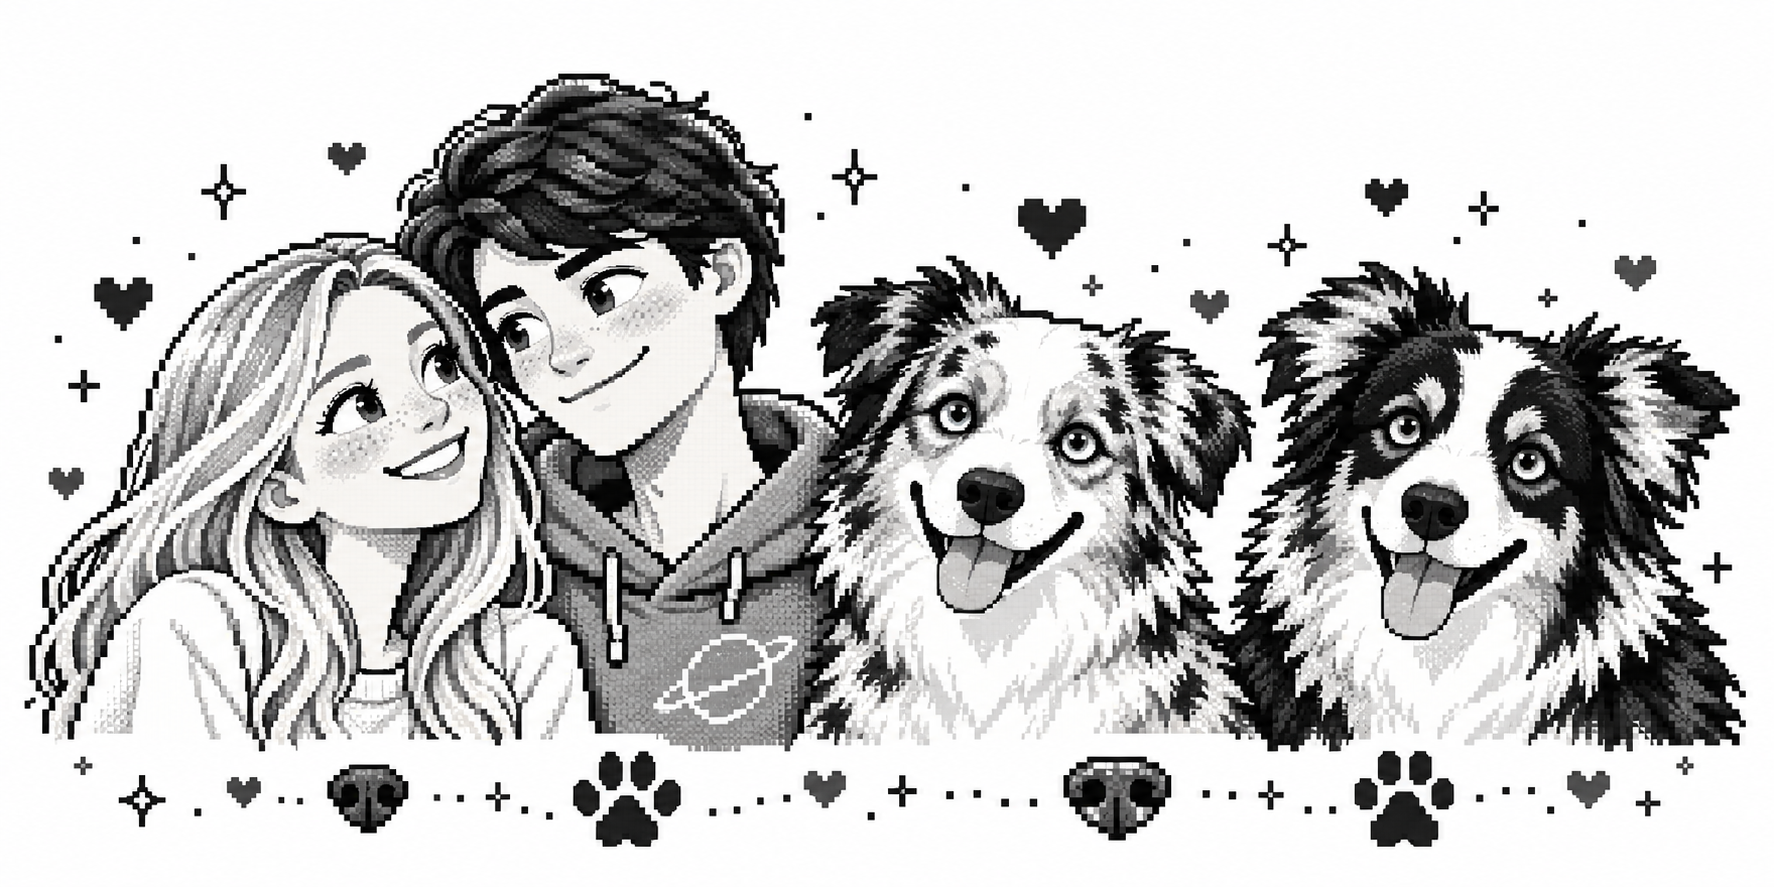
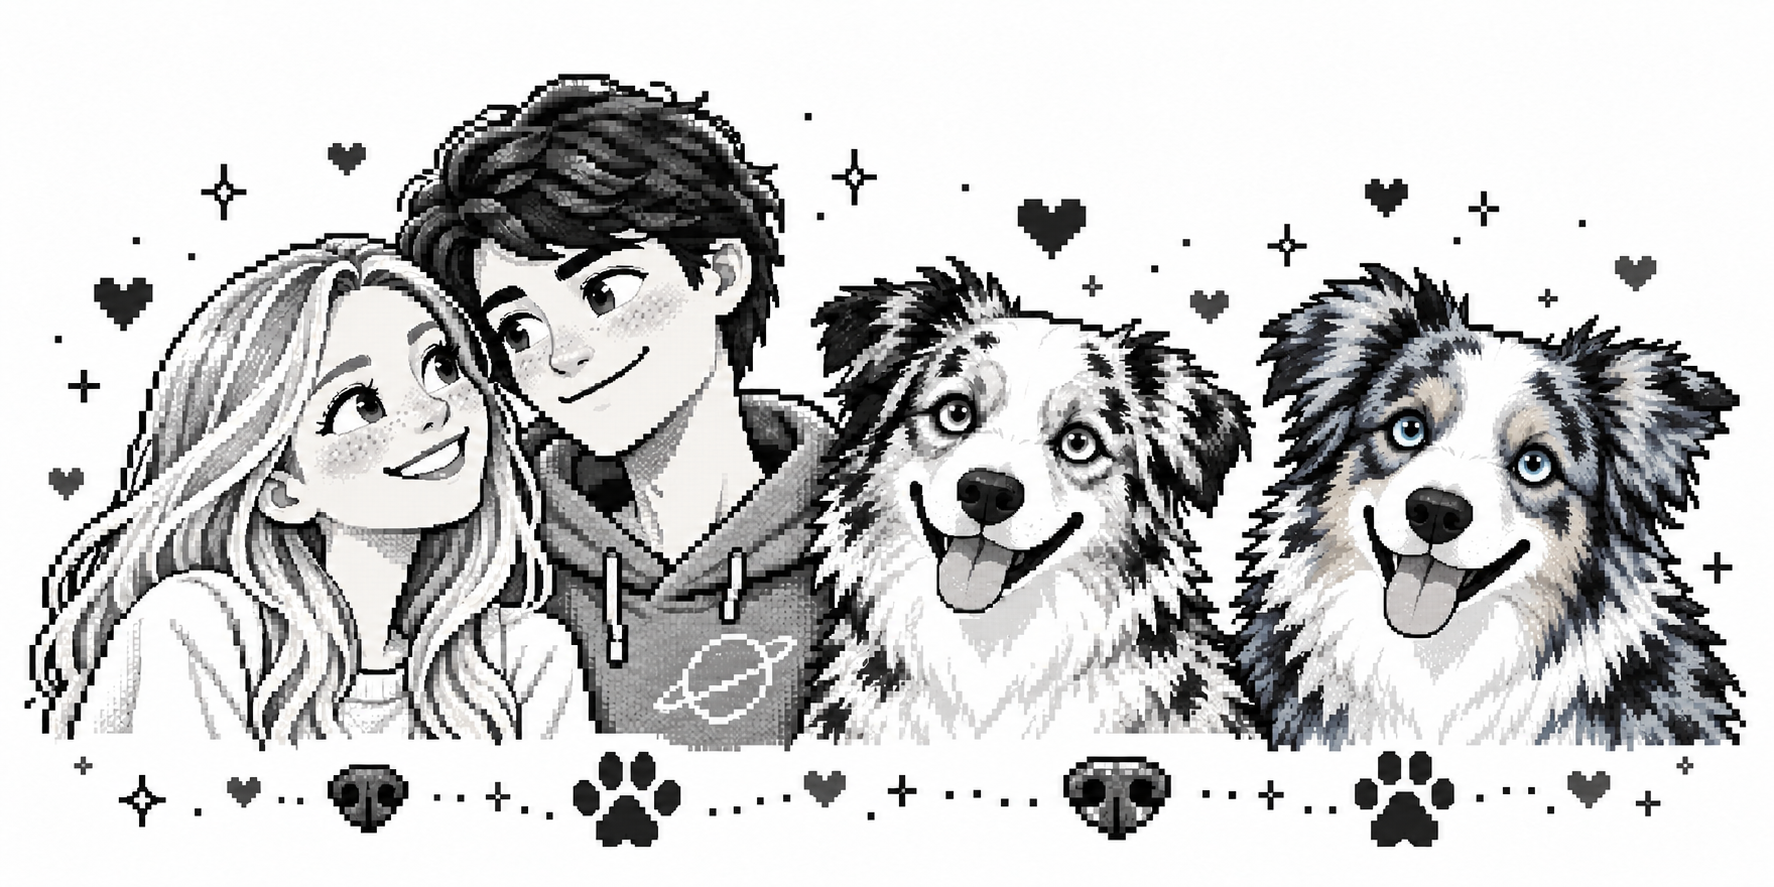
Add postcard puzzle gates and correct Eyva blue merle portrait

diff --git a/index.html b/index.html
@@ -2,7 +2,7 @@
 <html lang="en"><head><meta charset="utf-8"><meta name="viewport" content="width=device-width,initial-scale=1"><meta name="theme-color" content="#faf9f5"><meta name="robots" content="noindex,nofollow"><title>A little way home · For Irochka</title><link rel="stylesheet" href="style.css"></head>
 <body><main>
 <header><span class="brand">SASHA NAVIGATION</span><span class="edition">a little way home ♡</span></header>
-<section id="lock"><p class="eyebrow">SASHA NAVIGATION · BOARDING GATE</p><h1>Almost home,<br>Irochka.</h1><img class="gate-art" src="pixel-crew.png" alt="Your pixel welcome crew: Sasha and the two Aussies"><p class="lead">Your ticket holds our secret word.<br>Four lines. Four first steps. One word.</p><form id="unlock-form"><label for="secret-code">BOARDING CODE</label><input id="secret-code" name="code" maxlength="12" autocomplete="off" autocapitalize="characters" spellcheck="false" placeholder="_ _ _ _" aria-describedby="lock-feedback"><button class="primary" type="submit">Open the gate ♡</button></form><p id="lock-feedback" aria-live="polite">A little riddle before our little adventure.</p><button id="code-hint" class="text-button" type="button">Sasha, a tiny hint?</button><p id="hint-copy" hidden>Look inside your paper ticket. Read the first letter of each of the four lines, from top to bottom.</p><button id="lost-ticket" class="text-button" type="button">My paper ticket is taking a detour…</button><div id="paper-copy" hidden><p>Look how far your little feet have been.<br>One more adventure waits beyond this gate.<br>Very soon, I’ll hold you close again.<br>Every road feels warmer with you.</p></div></section><section id="intro" hidden><p class="eyebrow">SO MANY CITIES. ONE VERY LOVED IROCHKA.</p><h1>Your suitcase.<br>A whole little world.</h1><p class="lead">Hop across rooftops, ride the boats, chase the wind.<br>Collect our little memories. Find the way home.</p><div class="intro-art"><img src="pixel-crew.png" alt="Pixel portraits of Ira, Sasha and their two Australian shepherds"></div><button id="start" class="primary">Let’s take the scenic way home →</button><p class="small">A little game from Sasha. Made for your tired feet.</p></section>
+<section id="lock"><p class="eyebrow" id="lock-label">01 / THE LETTER</p><h1 id="lock-title">Almost home, Irochka.</h1><img class="gate-art" src="pixel-crew.png" alt="Your pixel welcome crew: Sasha and the two Aussies"><p class="lead" id="lock-copy">Four lines in your letter. Four first steps. One word.</p><form id="unlock-form"><label for="secret-code">YOUR ANSWER</label><input id="secret-code" name="code" maxlength="12" autocomplete="off" autocapitalize="characters" spellcheck="false" placeholder="_ _ _ _" aria-describedby="lock-feedback"><button class="primary" type="submit">Open the gate ♡</button></form><p id="lock-feedback" aria-live="polite">A little riddle before our little adventure.</p><button id="code-hint" class="text-button" type="button">Sasha, a tiny hint?</button><p id="hint-copy" hidden>Look inside your paper ticket. Read the first letter of each of the four lines, from top to bottom.</p><button id="lost-ticket" class="text-button" type="button">My paper ticket is taking a detour…</button><div id="paper-copy" hidden><p>Look how far your little feet have been.<br>One more adventure waits beyond this gate.<br>Very soon, I’ll hold you close again.<br>Every road feels warmer with you.</p></div></section><section id="intro" hidden><p class="eyebrow">SO MANY CITIES. ONE VERY LOVED IROCHKA.</p><h1>Your suitcase.<br>A whole little world.</h1><p class="lead">Hop across rooftops, ride the boats, chase the wind.<br>Collect our little memories. Find the way home.</p><div class="intro-art"><img src="pixel-crew.png" alt="Pixel portraits of Ira, Sasha and their two Australian shepherds"></div><button id="start" class="primary">Let’s take the scenic way home →</button><p class="small">A little game from Sasha. Made for your tired feet.</p></section>
 <section id="play" hidden><div class="chapter"><div><p class="eyebrow" id="chapter-label"></p><h1 id="city-title"></h1></div><span id="stamp" class="stamp">♡</span></div><p class="caption" id="city-caption"></p><div class="game-wrap"><canvas id="game" width="720" height="500" aria-label="Move left or right and jump twice. Collect three hearts and reach the letter at the end."></canvas><span hidden class="from-label" id="from-label"></span><span hidden class="to-label" id="to-label"></span></div><div class="navigation-note"><span>Sasha says</span><p id="hint" aria-live="polite">Hold the button. Release when the little heart reaches the dotted zone.</p></div><div id="controls"><div class="hud"><span id="hearts">♡ ♡ ♡</span><span id="mechanic"></span><button id="pause" class="text-button">Pause</button></div><div class="pad"><button id="left" aria-label="Move left">←</button><button id="right" aria-label="Move right">→</button><button id="jump" class="primary">Jump ↑</button></div><p class="small">← → or A / D to move · Space to jump · jump again in the air!</p><button id="gentle" class="text-button">Sasha, give me a hand ♡</button></div><div id="landed" hidden><p id="memory" class="memory"></p><button id="next" class="primary">Keep going, together →</button></div><ol id="route" class="route" aria-label="Your journey"></ol></section>
 <section id="finish" hidden><p class="eyebrow">DESTINATION FOUND</p><h1>You don’t have to know<br>every turn.</h1><img class="final-art" src="pixel-crew.png" alt="Ira, Sasha and two happy Australian shepherds in pixel art"><div class="letter"><p>Irochka,</p><p>So many cities, so many little adventures.<br>And through every one of them, you’ve been close to me.</p><p>If you lose your way, forget the city, or simply feel tired — call me. We’ll figure it out together.</p><p>The next stop is a hug.<br>The two fluffy members of your welcome committee are ready, too.</p><p class="signature">I’m always here for you.<br>With love, Sasha ♡</p></div><h2>Your little journey</h2><div id="memory-book"></div><button id="replay" class="text-button">One more little adventure?</button></section>
 <footer>For Irochka, wherever you are. ♡</footer></main><script src="gate.js"></script><script src="stops.js"></script><script src="game.js"></script><script src="art.js"></script></body></html>

diff --git a/gate.js b/gate.js
@@ -1,16 +1,32 @@
 (()=>{
 const el=id=>document.getElementById(id);
+const puzzles=[
+ {code:'LOVE',title:'Almost home, Irochka.',label:'01 / THE LETTER',copy:'Four lines in your letter. Four first steps. One word.',hint:'Read the first letter of each of the four lines, from top to bottom.',paper:'Look how far your little feet have been.\nOne more adventure waits beyond this gate.\nVery soon, I’ll hold you close again.\nEvery road feels warmer with you.'},
+ {code:'12',title:'Paw inspection!',label:'02 / THE WELCOME CREW',copy:'Our two fluffy inspectors left prints all over your ticket. How many pawprints can you find?',hint:'Count every pawprint on the whole open sheet, including the two large stamps under our portraits. Noses and stars do not count.',paper:'There are ten small pawprints scattered over the sheet and two large paw stamps underneath our portraits.'},
+ {code:'HOME',title:'One last little clue.',label:'03 / OUR DESTINATION',copy:'Find the honey jar on your ticket. Take away a few letters, then add a little “me”. Where are we going?',hint:'HONEY minus NEY leaves HO. Now add ME.',paper:'HONEY − NEY + ME = _ _ _ _'}
+];
+let current=0,after=()=>{el('intro').hidden=false;el('start').focus({preventScroll:true})};
+const solved=new Set();
+try{JSON.parse(localStorage.getItem('irochka-puzzles-v1')||'[]').forEach(x=>{if(Number.isInteger(x)&&x>=0&&x<3)solved.add(x)})}catch{}
+function show(n,done){
+ if(solved.has(n)){done();return}
+ current=n;after=done;const p=puzzles[n];
+ el('lock').hidden=false;el('intro').hidden=true;el('play').hidden=true;el('finish').hidden=true;
+ el('lock-title').textContent=p.title;el('lock-label').textContent=p.label;el('lock-copy').textContent=p.copy;
+ el('hint-copy').textContent=p.hint;el('hint-copy').hidden=true;el('paper-copy').textContent=p.paper;el('paper-copy').hidden=true;
+ el('secret-code').value='';el('secret-code').placeholder=n===1?'?':'_ _ _ _';el('secret-code').inputMode=n===1?'numeric':'text';
+ el('lock-feedback').textContent='Take your time, love. Your journey is saved.';window.scrollTo(0,0);
+}
+window.ticketGate=(stage,done)=>{
+ const required=stage>=12?[0,1,2]:stage>=6?[0,1]:[0];
+ const next=required.find(n=>!solved.has(n));if(next===undefined){done();return}show(next,()=>window.ticketGate(stage,done));
+};
 el('unlock-form').addEventListener('submit',event=>{
- event.preventDefault();
- const code=el('secret-code').value.normalize('NFKC').replace(/\s/g,'').toUpperCase();
- if(code==='LOVE'){
-  el('lock').hidden=true;el('intro').hidden=false;
-  el('start').textContent='Boarding approved. Let’s go! →';el('start').focus({preventScroll:true});window.scrollTo(0,0);
- }else{
-  el('lock-feedback').textContent=code?'The welcome crew says: nearly! Try the first letters. ♡':'Four little letters are missing. Take your time. ♡';
-  el('secret-code').focus();
- }
+ event.preventDefault();const raw=el('secret-code').value.normalize('NFKC').replace(/\s/g,'').toUpperCase();
+ const code=current===1&&/^\d+$/.test(raw)?String(Number(raw)):raw;
+ if(code===puzzles[current].code){solved.add(current);try{localStorage.setItem('irochka-puzzles-v1',JSON.stringify([...solved]))}catch{}el('lock').hidden=true;after()}
+ else{el('lock-feedback').textContent='Not quite yet. Try again, or ask me for a tiny hint. ♡';el('secret-code').focus()}
 });
-el('code-hint').onclick=()=>el('hint-copy').hidden=false;
-el('lost-ticket').onclick=()=>el('paper-copy').hidden=false;
+el('code-hint').onclick=()=>el('hint-copy').hidden=false;el('lost-ticket').onclick=()=>el('paper-copy').hidden=false;
+show(0,()=>{el('lock').hidden=true;el('intro').hidden=false});
 })();

diff --git a/style.css b/style.css
@@ -2,3 +2,5 @@
 .route-options{max-width:470px;margin:0 auto 20px;text-align:left;border-top:1px solid var(--line);border-bottom:1px solid var(--line);padding:13px 0;font:12px/1.6 system-ui,sans-serif;color:var(--muted)}.route-options summary{cursor:pointer}.route-options label{display:block;padding:7px 0}.route-options input{accent-color:var(--ink);width:17px;height:17px;vertical-align:middle}.memory-card h3{font-weight:400;font-size:20px;margin:12px 0}
 .game-wrap{border-radius:12px;margin-top:16px}canvas{aspect-ratio:720/500;max-height:none;image-rendering:pixelated}.hud{display:flex;align-items:center;justify-content:space-between;margin:8px 0;gap:12px}.hud #hearts{font-size:23px;white-space:nowrap}.hud #mechanic{font:12px system-ui,sans-serif;color:var(--muted)}.pad{display:grid;grid-template-columns:1fr 1fr 2.2fr;gap:10px}.pad button{min-height:62px;border:1px solid #827969;border-radius:7px;background:#eae5db;font:24px system-ui,sans-serif;color:#363029;touch-action:none;user-select:none;-webkit-user-select:none}.pad button:last-child{background:#363029;color:#faf9f5;font-size:19px}.pad button:active{transform:translateY(2px);background:#aaa08d}.navigation-note{min-height:43px}.caption{margin-bottom:10px}#play{padding-top:22px}.chapter h1{font-size:30px} .from-label,.to-label{display:none}
 body{background:#fff;color:#252525;font-family:'Courier New',monospace}h1,h2,h3,.letter,.signature{font-family:'Courier New',monospace}h1{font-weight:700;letter-spacing:-1.5px}.primary,.pad button{border-radius:0;box-shadow:4px 4px 0 #a8a8a8}.game-wrap{border-radius:0;border:3px solid #292929}.stamp{border-radius:0;border:2px dashed #292929;transform:none}.route li{border-radius:0}.intro-art img,.final-art{image-rendering:pixelated}#lock{text-align:center;max-width:650px;margin:auto}.gate-art{width:100%;margin:8px 0 15px;image-rendering:pixelated}#unlock-form{max-width:360px;margin:24px auto;display:grid;gap:14px}#unlock-form label{font-size:11px;letter-spacing:3px}#secret-code{width:100%;box-sizing:border-box;border:2px solid #292929;border-radius:0;padding:16px;font:bold 28px 'Courier New',monospace;letter-spacing:10px;text-align:center;text-transform:uppercase}#lock-feedback,#hint-copy,#paper-copy{font-size:13px;line-height:1.8}#lost-ticket{display:block;margin:auto}#paper-copy{border:2px dashed #777;padding:14px;margin:20px auto;text-align:left;max-width:490px}#code-hint{font-size:13px}header{border-bottom:2px dashed #777}footer{font-family:'Courier New',monospace}
+
+#paper-copy{white-space:pre-line} #lock-title{max-width:800px}

diff --git a/game.js b/game.js
@@ -9,7 +9,8 @@ let theme='roof';
 try{const s=JSON.parse(localStorage.getItem('irochka-platformer-v2'));if(s&&Number.isInteger(s.index)){index=Math.max(0,Math.min(s.index,route.length-1));visited=s.visited||{};score=s.score||{};if(index)$('start').textContent='Continue the adventure →'}}catch{}
 function save(){try{localStorage.setItem('irochka-platformer-v2',JSON.stringify({index,visited,score}))}catch{}}
 function message(s){$('hint').textContent=s;toast=4}
-function setup(){theme=themes[route[index].landmark]||'roof';time=0;camera=0;assist=false;ground=null;particles=[];toast=0;
+function setup(){window.ticketGate(index,setupUnlocked)}
+function setupUnlocked(){theme=themes[route[index].landmark]||'roof';time=0;camera=0;assist=false;ground=null;particles=[];toast=0;
  const ys=[470,416,350,408,330,394,470],xs=[0,190,365,540,715,900,1080];
  platforms=xs.map((x,i)=>({x,baseX:x,y:ys[i],baseY:ys[i],w:i===0?155:i===6?240:126,type:i===0||i===6?'solid':theme==='boat'&&i%2?'boat':theme==='lift'&&i%2?'lift':theme==='bounce'&&i===2?'bounce':theme==='crumble'&&i%2?'crumble':'solid',crack:0,hidden:0,dx:0,dy:0}));
  hearts=[1,3,5].map(i=>({platform:i,taken:false}));secret={x:778,y:173,taken:false};checkpoint={x:70,y:470};player={x:70,y:470,vx:0,vy:0,jumps:0,face:1};mode='play';keys.left=keys.right=false;
